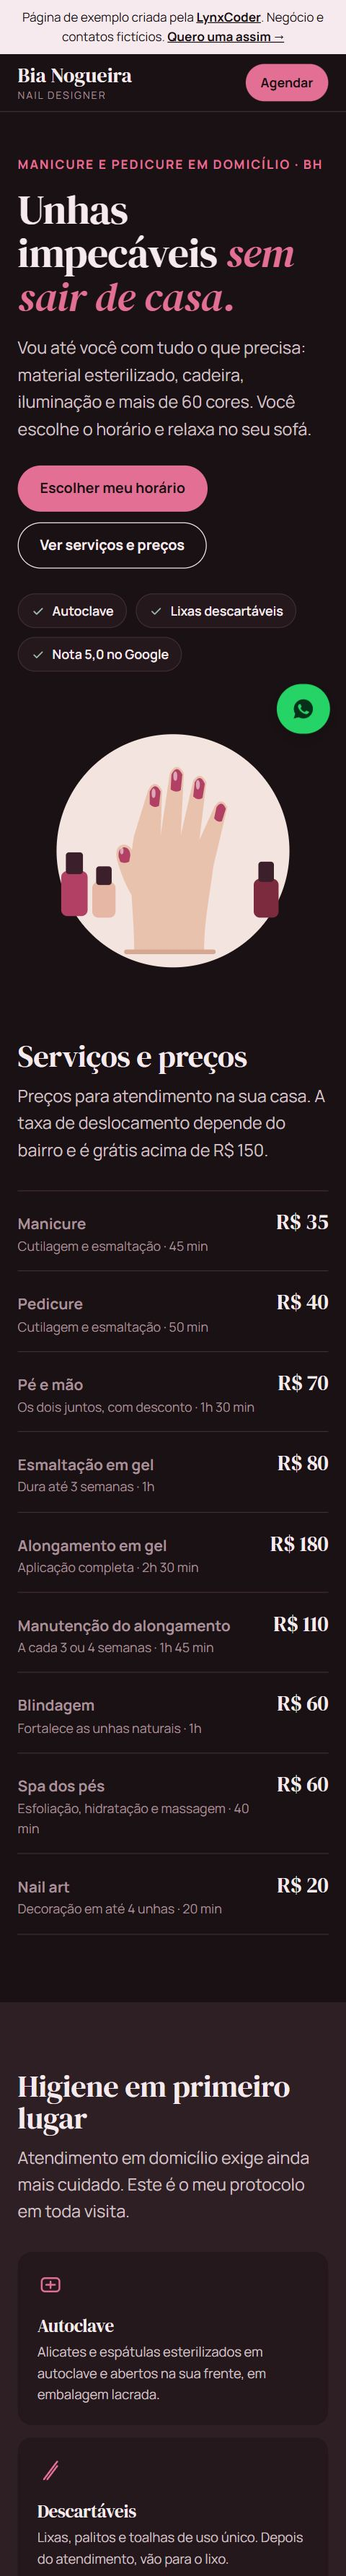
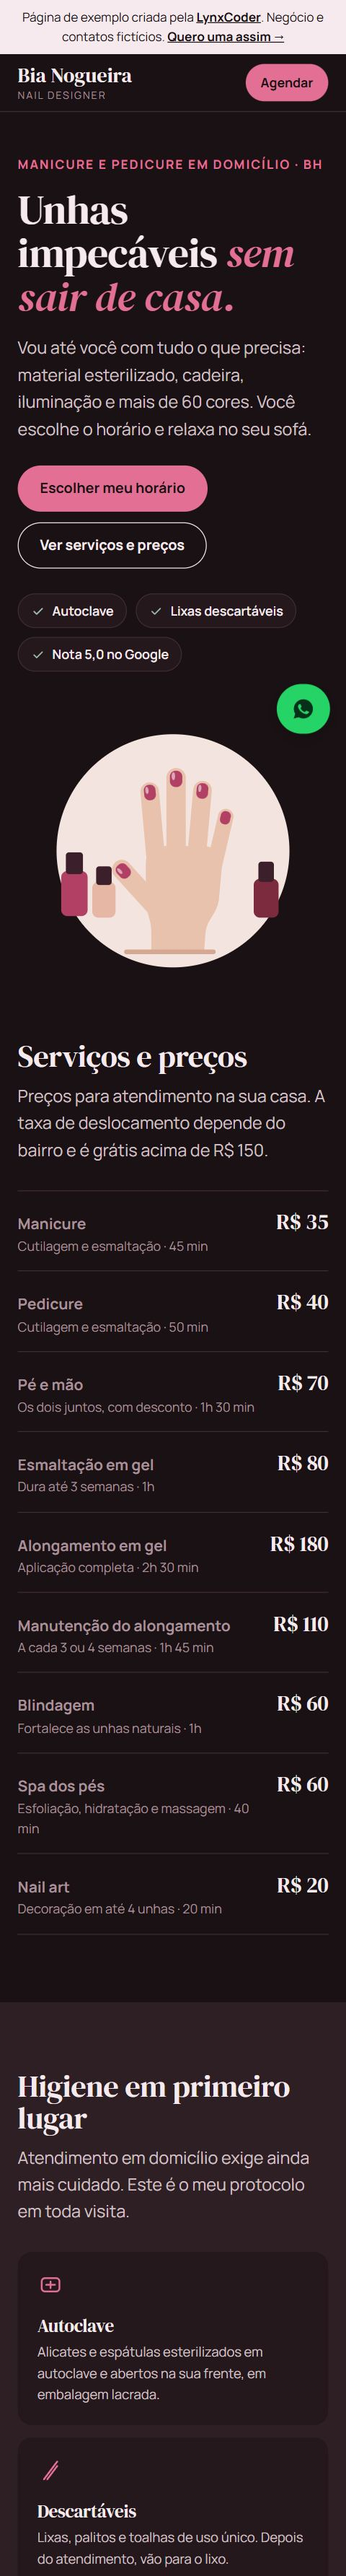
fix: redesenha a mão da ilustração da manicure
Dedos com largura uniforme e ponta redonda, polegar a sair da palma,
palma que afina até ao pulso e unhas alinhadas com cada dedo.

Changed region(s): [[0.5, 0.2799, 0.6875, 0.3732], [0.3125, 0.2799, 0.4688, 0.3732], [0.4688, 0.311, 0.5, 0.3421]]

diff --git a/src/exemplos/manicure.html b/src/exemplos/manicure.html
@@ -282,17 +282,29 @@ dialog.demo-dialog::backdrop{background:rgba(59,31,43,.6)}
           <rect x="96" y="210" width="30" height="46" rx="8" fill="#E7B7A6"/><rect x="101" y="190" width="20" height="24" rx="4" fill="#3B1F2B"/>
           <rect x="304" y="206" width="32" height="50" rx="8" fill="#7C2A3E"/><rect x="310" y="184" width="20" height="26" rx="4" fill="#3B1F2B"/>
         </g>
-        <!-- polegar (desenhado antes da mão para a junção ficar por baixo da palma) -->
-        <path d="M156 240 C144 226 134 204 128 182 Q124 164 136 162 Q147 162 149 176 L160 204 Z" fill="#E9C2AE"/>
-        <path d="M150 300 C150 240 140 200 150 150 L168 92 Q176 76 186 92 L184 150 L196 70 Q205 54 214 70 L210 150 L226 80 Q235 66 243 82 L234 156 L254 112 Q263 100 270 114 L252 190 C246 236 240 262 240 300 Z" fill="#E9C2AE"/>
-        <g fill="#B23F64">
-          <path d="M130 178 Q129 166 137 165.5 Q144.5 166 145 176 L143.5 184 Q137.5 187 132 184 Z"/>
-          <path d="M170 94 Q177 80 184 94 L182 112 Q176 116 170 110 Z"/>
-          <path d="M198 72 Q205 58 212 72 L210 92 Q204 96 197 91 Z"/>
-          <path d="M228 82 Q235 70 241 84 L238 102 Q232 106 226 100 Z"/>
-          <path d="M256 114 Q263 104 268 116 L263 132 Q257 134 253 128 Z"/>
+        <!-- mão: dedos são traços grossos de ponta redonda; a palma é desenhada por cima para esconder as junções -->
+        <g stroke="#E9C2AE" stroke-linecap="round" fill="none">
+          <path d="M174 238 L134 194" stroke-width="25"/>
+          <path d="M178 182 L170 94" stroke-width="24"/>
+          <path d="M204 178 L204 76" stroke-width="25"/>
+          <path d="M230 182 L238 92" stroke-width="24"/>
+          <path d="M252 194 L268 126" stroke-width="20"/>
         </g>
-        <g fill="#fff" opacity=".55"><ellipse cx="134" cy="170" rx="2.2" ry="4.5"/><ellipse cx="175" cy="96" rx="2.5" ry="6"/><ellipse cx="203" cy="74" rx="2.5" ry="6"/><ellipse cx="232" cy="85" rx="2.5" ry="6"/></g>
+        <path d="M165 186 Q165 166 186 164 H240 Q263 165 263 190 L259 234 C256 252 244 258 242 274 L240 300 H172 L172 274 C172 258 165 250 165 232 Z" fill="#E9C2AE"/>
+        <!-- unhas: cada uma rodada na direção do seu dedo -->
+        <g fill="#B23F64">
+          <rect x="128" y="186" width="16" height="20" rx="7" transform="rotate(-42.3 136 196)"/>
+          <rect x="162.7" y="85" width="15" height="20" rx="7" transform="rotate(-5.2 170.2 95)"/>
+          <rect x="196" y="67" width="16" height="21" rx="7.5"/>
+          <rect x="230.3" y="83" width="15" height="20" rx="7" transform="rotate(5.1 237.8 93)"/>
+          <rect x="261" y="119" width="13" height="17" rx="6" transform="rotate(13.2 267.5 127.5)"/>
+        </g>
+        <g fill="#fff" opacity=".55">
+          <ellipse cx="132.5" cy="193" rx="2" ry="4.5" transform="rotate(-42.3 136 196)"/>
+          <ellipse cx="166.7" cy="92" rx="2" ry="4.5" transform="rotate(-5.2 170.2 95)"/>
+          <ellipse cx="200.5" cy="74" rx="2.2" ry="5"/>
+          <ellipse cx="234.3" cy="90" rx="2" ry="4.5" transform="rotate(5.1 237.8 93)"/>
+        </g>
         <path d="M140 300h112" stroke="#D4A893" stroke-width="6" stroke-linecap="round"/>
       </svg>
     </div>
